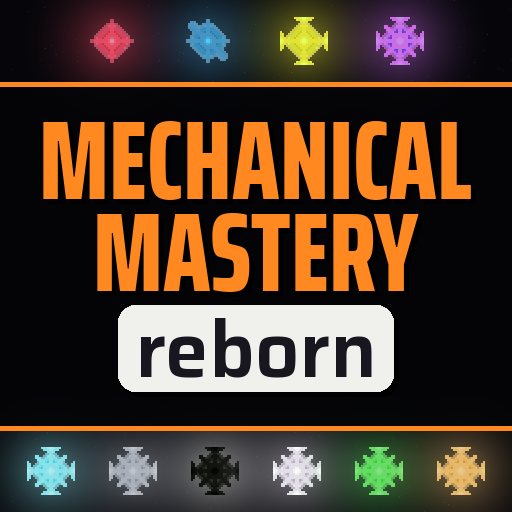
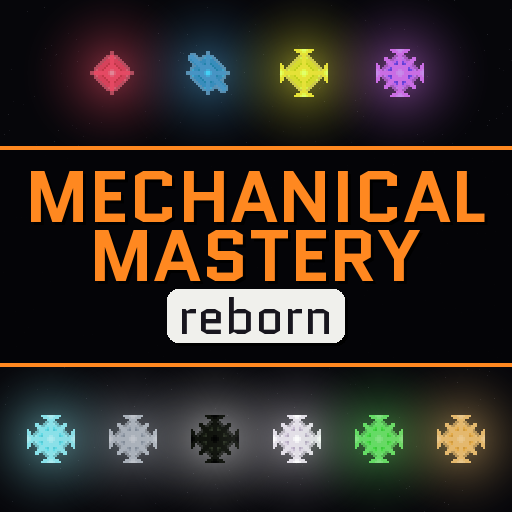
Reborn's covers set their title and pill in Quantico (#274)

diff --git a/MMR26.1.2/publish/make-cover.py b/MMR26.1.2/publish/make-cover.py
@@ -16,16 +16,16 @@
 #   - above the title band, the four tier essences in a row, lowest first, scaled up nearest-neighbour,
 #     each glowing in its own colour;
 #   - the band, dark, ruled top and bottom in the accent, holding the suite's title turned around, as
-#     A Touch of Darkness's is: "MECHANICAL MASTERY" in Saira Extra Condensed caps, in the accent's
+#     A Touch of Darkness's is: "MECHANICAL MASTERY" in Quantico caps, in the accent's
 #     orange, then the suite's white pill holding "reborn". The icon stacks them;
 #   - beneath the band, the four Transmuted Essences with Nullessence and Quintessence, the last
 #     stand's two sides, paired in their middle.
 #
 # Its art is the companion mod's own textures only (mod/NOTICE), nothing of Mojang's. Its fonts are
-# found on the system, with fallbacks; none is committed. Saira Extra Condensed and Saira are Google
-# Fonts (SIL OFL), installed by hand, the first's ExtraBold for the title and the second's SemiBold
-# for the pill, static or variable; without them the title falls back to Impact and the pill to
-# Arial Black, which every run there draws the same, if not as designed.
+# found on the system, with fallbacks; none is committed. Quantico is a Google Font
+# (SIL OFL), installed by hand, its Bold for the title and its Regular for the pill; without it the
+# title falls back to Impact and the pill to Arial Black, which every run there draws the same, if
+# not as designed.
 import math
 import os
 import random
@@ -50,13 +50,12 @@ TIERS = ['basic_mechanical_essence', 'regular_mechanical_essence', 'improved_mec
 TRANSMUTED = ['galvanic_essence', 'warding_essence', 'vital_essence', 'aureate_essence']
 LAST_STAND = ['nullessence', 'quintessence']
 TITLE, WORD = 'MECHANICAL MASTERY', 'reborn'
-FONTS = ['~/Library/Fonts/', '/Library/Fonts/', '~/.local/share/fonts/saira/', '~/.local/share/fonts/',
-         '/usr/share/fonts/TTF/', '/usr/share/fonts/truetype/saira/']
-# a font is a path, or a path and the named instance of a variable font
-TITLE_FONT = [d + 'SairaExtraCondensed-ExtraBold.ttf' for d in FONTS] + [
+FONTS = ['~/Library/Fonts/', '/Library/Fonts/', '~/.local/share/fonts/quantico/', '~/.local/share/fonts/',
+         '/usr/share/fonts/TTF/', '/usr/share/fonts/truetype/quantico/']
+TITLE_FONT = [d + 'Quantico-Bold.ttf' for d in FONTS] + [
     '/System/Library/Fonts/Supplemental/Impact.ttf', '/usr/share/fonts/TTF/impact.ttf',
     '~/.local/share/fonts/msfonts/impact.ttf', '/usr/share/fonts/noto/NotoSans-Black.ttf']
-WORD_FONT = [f for d in FONTS for f in [d + 'Saira-SemiBold.ttf', (d + 'Saira[wdth,wght].ttf', 'SemiBold')]] + [
+WORD_FONT = [d + 'Quantico-Regular.ttf' for d in FONTS] + [
     '/System/Library/Fonts/Supplemental/Arial Black.ttf', '/usr/share/fonts/TTF/ariblk.ttf',
     '~/.local/share/fonts/msfonts/ariblk.ttf', '/usr/share/fonts/noto/NotoSans-Black.ttf']
 WORD_SCALE = 0.7  # the pill's word against the title
@@ -111,15 +110,10 @@ def void(W, H):
 
 
 def font(names, size):
-    for n in names:
-        path, instance = n if isinstance(n, tuple) else (n, None)
-        path = os.path.expanduser(path)
-        if os.path.exists(path):
-            f = ImageFont.truetype(path, size)
-            if instance:
-                f.set_variation_by_name(instance)
-            return f
-    raise SystemExit('needs one of ' + ', '.join(n if isinstance(n, str) else n[0] for n in names))
+    for n in map(os.path.expanduser, names):
+        if os.path.exists(n):
+            return ImageFont.truetype(n, size)
+    raise SystemExit('needs one of ' + ', '.join(names))
 
 
 def make(out, W, H, title_size, px, under_px, stacked=False):

diff --git a/MMR26.1.2/mod/publish/make-cover.py b/MMR26.1.2/mod/publish/make-cover.py
@@ -14,15 +14,14 @@
 #   - a wall of the Recycler's casing, drive and vent textures, tiled nearest-neighbour as Beltworks'
 #     tiles its belts, in a fixed pattern so every run draws the same image, dimmed so the title reads;
 #   - the title band, dark, ruled top and bottom in the accent, holding the suite's title turned
-#     around, as A Touch of Darkness's is: "MECHANICAL MASTERY" in Saira Extra Condensed caps, in the accent's
+#     around, as A Touch of Darkness's is: "MECHANICAL MASTERY" in Quantico caps, in the accent's
 #     orange, then the suite's white pill holding "core". The icon stacks them.
 #
 # Its art is the mod's own textures only, Malcolm Riley's Recycler textures (NOTICE), nothing of
-# Mojang's. Its fonts are found on the system, with fallbacks; none is committed. Saira Extra
-# Condensed and Saira are Google Fonts (SIL OFL), installed by hand, the first's ExtraBold for the
-# title and the second's SemiBold for the pill, static or variable; without them the title falls
-# back to Impact and the pill to Arial Black, which every run there draws the same, if not as
-# designed.
+# Mojang's. Its fonts are found on the system, with fallbacks; none is committed. Quantico is a Google
+# Font (SIL OFL), installed by hand, its Bold for the title and its Regular for the pill; without it
+# the title falls back to Impact and the pill to Arial Black, which every run there draws the same,
+# if not as designed.
 import os
 
 from PIL import Image, ImageDraw, ImageFont
@@ -36,13 +35,12 @@ ACCENT = (255, 136, 32)  # orange, a machine's warning paint, apart from every e
 PILL = (240, 240, 236)
 PILL_TEXT = (24, 22, 30)
 TITLE, WORD = 'MECHANICAL MASTERY', 'core'
-FONTS = ['~/Library/Fonts/', '/Library/Fonts/', '~/.local/share/fonts/saira/', '~/.local/share/fonts/',
-         '/usr/share/fonts/TTF/', '/usr/share/fonts/truetype/saira/']
-# a font is a path, or a path and the named instance of a variable font
-TITLE_FONT = [d + 'SairaExtraCondensed-ExtraBold.ttf' for d in FONTS] + [
+FONTS = ['~/Library/Fonts/', '/Library/Fonts/', '~/.local/share/fonts/quantico/', '~/.local/share/fonts/',
+         '/usr/share/fonts/TTF/', '/usr/share/fonts/truetype/quantico/']
+TITLE_FONT = [d + 'Quantico-Bold.ttf' for d in FONTS] + [
     '/System/Library/Fonts/Supplemental/Impact.ttf', '/usr/share/fonts/TTF/impact.ttf',
     '~/.local/share/fonts/msfonts/impact.ttf', '/usr/share/fonts/noto/NotoSans-Black.ttf']
-WORD_FONT = [f for d in FONTS for f in [d + 'Saira-SemiBold.ttf', (d + 'Saira[wdth,wght].ttf', 'SemiBold')]] + [
+WORD_FONT = [d + 'Quantico-Regular.ttf' for d in FONTS] + [
     '/System/Library/Fonts/Supplemental/Arial Black.ttf', '/usr/share/fonts/TTF/ariblk.ttf',
     '~/.local/share/fonts/msfonts/ariblk.ttf', '/usr/share/fonts/noto/NotoSans-Black.ttf']
 WORD_SCALE = 0.7  # the pill's word against the title
@@ -62,15 +60,10 @@ def wall(W, H, tile):
 
 
 def font(names, size):
-    for n in names:
-        path, instance = n if isinstance(n, tuple) else (n, None)
-        path = os.path.expanduser(path)
-        if os.path.exists(path):
-            f = ImageFont.truetype(path, size)
-            if instance:
-                f.set_variation_by_name(instance)
-            return f
-    raise SystemExit('needs one of ' + ', '.join(n if isinstance(n, str) else n[0] for n in names))
+    for n in map(os.path.expanduser, names):
+        if os.path.exists(n):
+            return ImageFont.truetype(n, size)
+    raise SystemExit('needs one of ' + ', '.join(names))
 
 
 def make(out, W, H, title_size, tile, stacked=False):
